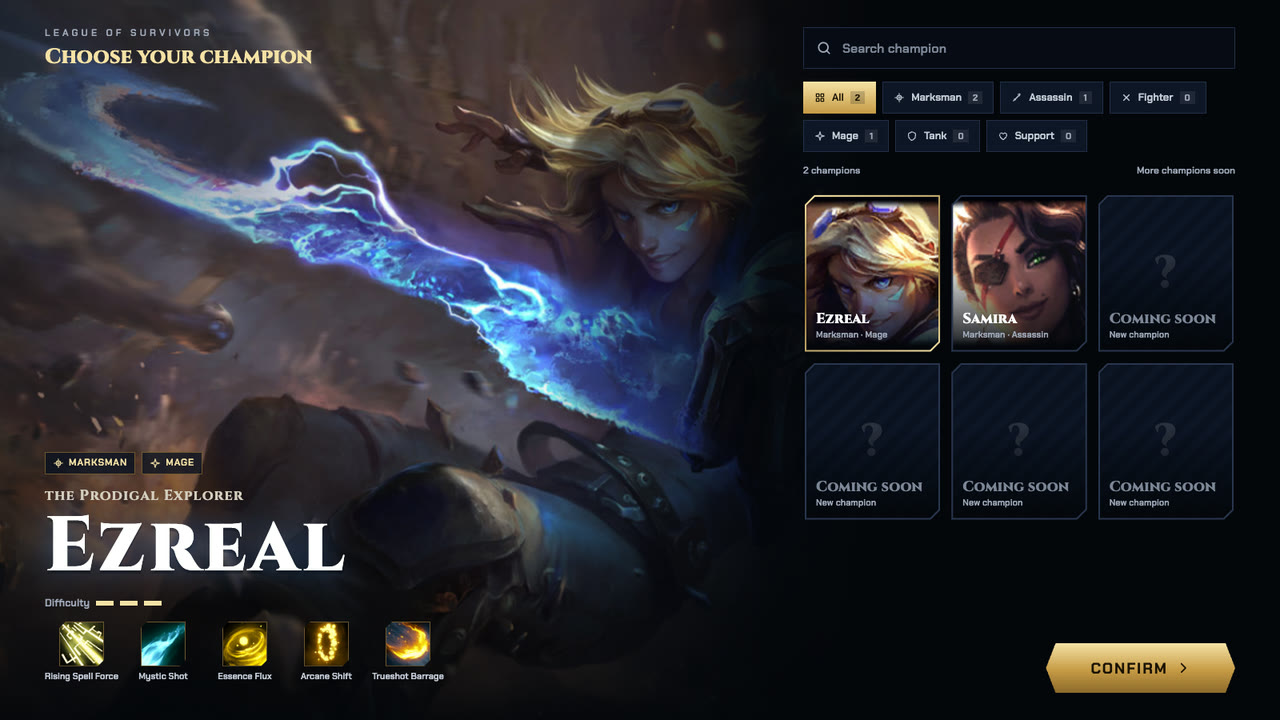
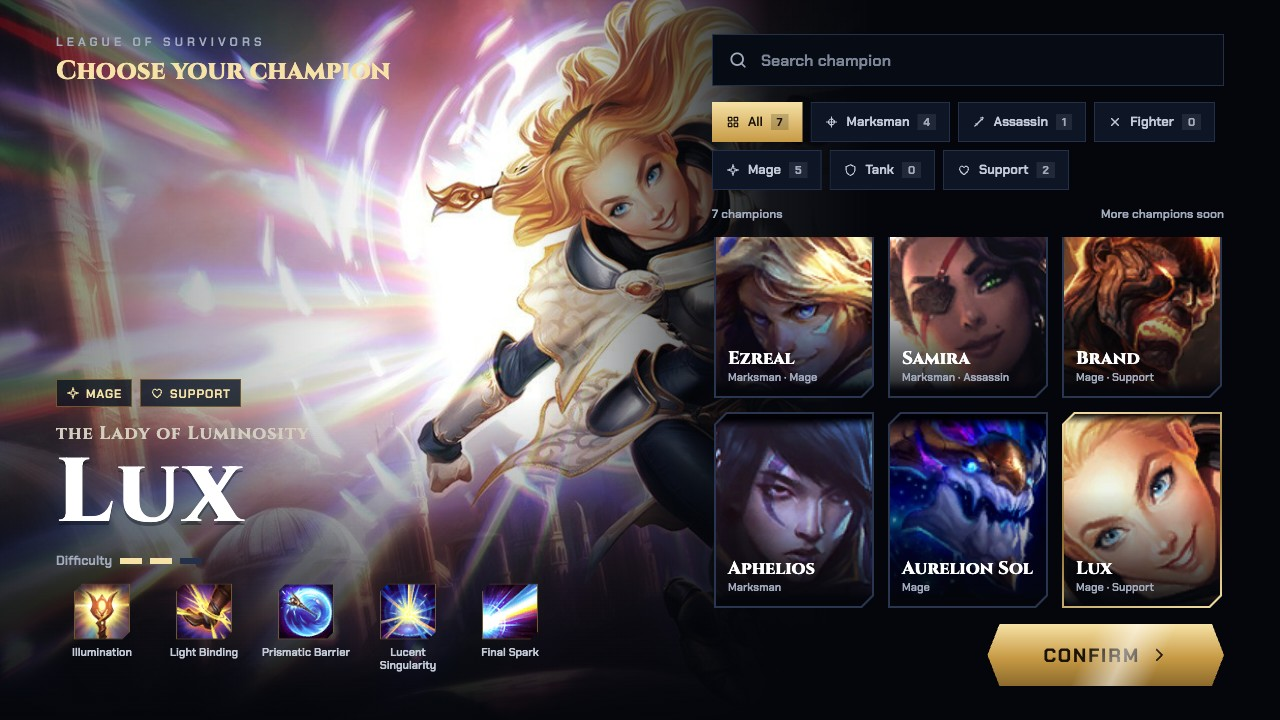
feat: expand champion details and balance information in README files
- Added a section for champions, detailing seven playable champions with their roles and styles.
- Updated the gallery images to reflect the new champion selection.
- Introduced a balance section summarizing current game tuning values, including game pace, enemy health, and mana costs for mages.
- Enhanced localization files to include new champion and balance information across English, Portuguese, and Simplified Chinese README files.

diff --git a/README.pt-BR.md b/README.pt-BR.md
@@ -28,20 +28,45 @@
 
 > O jogo está em inglês, português, espanhol e chinês simplificado, escolhido pelo idioma do navegador.
 
+## Campeões
+
+Sete campeões jogáveis, cada um com o kit completo do LoL adaptado (detalhes em [Regras implementadas](#regras-implementadas)):
+
+| Campeão | Funções | Estilo |
+|---|---|---|
+| Ezreal | Atirador · Mago | Skillshots; acertos do Q reduzem todas as recargas, blink da Mudança Arcana |
+| Samira | Atiradora · Assassina | Mistura de corpo a corpo e distância que sobe o grau de Estilo até S para a ultimate |
+| Brand | Mago · Suporte | Queimaduras da Labareda que detonam e se espalham pela horda |
+| Aphelios | Atirador | Cinco armas com munição de Luar, cada uma com ataque e Q próprios |
+| Aurelion Sol | Mago | Estrelas em órbita, voo por cima de paredes, meteoro que cai do céu |
+| Teemo | Atirador · Mago | Parado ganha velocidade de ataque, veneno no ataque, cogumelos que quicam |
+| Lux | Maga · Suporte | Marcas de Iluminação, enraizamento, escudo e o laser da Centelha Final |
+
 ## Galeria
 
 | Seleção de campeão | Página de runas |
 |---|---|
-| ![Seleção de campeão com a splash art e o kit do Ezreal](docs/media/champion-select.jpg) | ![Página de runas: Precisão + Feitiçaria com fragmentos](docs/media/rune-page.jpg) |
+| ![Seleção de campeão com a splash art da Lux e os sete campeões](docs/media/champion-select.jpg) | ![Página de runas: Precisão + Feitiçaria com fragmentos](docs/media/rune-page.jpg) |
 
 | Level-up: habilidades | Level-up: itens |
 |---|---|
 | ![Cartas de habilidade com dano, recarga e recomendação](docs/media/skill-pick.jpg) | ![Cartas de item com o nível, os atributos antes e depois da escolha e a passiva](docs/media/item-shop.jpg) |
 
-| Samira | Barão Na'Shor (20:00) |
+| Lux | Aurelion Sol |
 |---|---|
-| ![Samira enfrentando uma horda em volta do Aronguejo](docs/media/samira.gif) | ![Arena do Barão com ataques telegrafados](docs/media/baron.gif) |
-| ![Samira com o gauge de Estilo contra o Aronguejo](docs/media/samira.jpg) | ![Ezreal desviando da chicotada do Barão](docs/media/baron.jpg) |
+| ![Lux: Ligação da Luz, Singularidade Lucente e Centelha Final numa horda](docs/media/lux.gif) | ![Aurelion Sol: estrelas em órbita, Oscilação Estelar e Estrela Cadente](docs/media/aurelionsol.gif) |
+
+| Teemo | Brand |
+|---|---|
+| ![Teemo: dardos que cegam, veneno e Armadilha Venenosa](docs/media/teemo.gif) | ![Brand: queimaduras da Labareda e detonações em cadeia](docs/media/brand.gif) |
+
+| Aphelios | Samira |
+|---|---|
+| ![Aphelios: habilidades das armas, Fase e Vigília do Plenilúnio](docs/media/aphelios.gif) | ![Samira enfrentando uma horda em volta do Aronguejo](docs/media/samira.gif) |
+
+| Barão Na'Shor (20:00) | Menu de pausa: atributos, itens e botas |
+|---|---|
+| ![Arena do Barão com ataques telegrafados](docs/media/baron.gif) | ![Menu de pausa com todos os atributos do campeão e os atributos e a passiva de cada item](docs/media/stats-menu.jpg) |
 
 | Vitória | Celular (controles de toque) |
 |---|---|
@@ -241,13 +266,35 @@ WASD não é usado porque colide com Q/W/E.
   - Perto do Barão: 33% de chance de mordida (engole, instantânea, impossível de esquivar). Senão, chicotada em cone: 75% da vida máxima, nunca mata.
   - Ajustes em `BARON` (`src/data.ts`); comportamento em `src/enemies/baron.ts`.
 
+## Balanceamento
+
+Os ajustes atuais num lugar só (as regras completas estão acima):
+
+| O quê | Valor | Onde |
+|---|---|---|
+| Ritmo do jogo | x1 em 0:00 até x2 em 5:00, depois x2 | `PACE` (`src/game.ts`) |
+| Ficar parado | dano recebido até x5 após 5 s sem se mover | `CAMPING` (`src/game.ts`) |
+| Barão Na'Shor | 70 mil de Vida (fixa, sem escala por tempo) | `ENEMIES.baron` (`src/data.ts`) |
+| Poções (build completa) | 5% da Vida ou Mana máxima | `POTION` (`src/items.ts`) |
+| Botas | aos 5:00, nível 2 pelo Aronguejo, nível 3 pelo dragão | `BOOTS_AT`, `BOOT_UPGRADES` (`src/items.ts`) |
+| Vida / dano dos inimigos | `× (1 + 0,08 × (nível − 1)) × (1 + tempo / 900 s)` / `× (1 + tempo / 600 s)` | `enemyHpScale` / `enemyDamageScale` (`src/data.ts`) |
+| Surgimento | `0,45 + 0,04 × (nível − 1) + tempo / 450` por segundo, ×0,6–1,3 pela taxa de abates, limite `12 + 2 × nível + tempo / 8` | `DIRECTOR` (`src/data.ts`) |
+
+Magos conjuram sem parar contra hordas, então os custos de mana do LoL foram reduzidos e a mana por abate tem recarga interna contra tropas (1 s; 0,5 s para as estrelas do Aurelion Sol):
+
+| Campeão | Custos (LoL entre parênteses) | Mana por abate |
+|---|---|---|
+| Brand | Q 40, W/E 45–65, R 80 | 20–40 em abates por habilidade ou de inimigo em chamas |
+| Aurelion Sol | Q 50–70, R 100, W sem custo de ativação (drena 6–10/s) | 4–12 por abate de estrela |
+| Teemo | Q 40–60 (70–90) | nenhuma |
+| Lux | Q 40, W 40–60, E 50–70, R 80 | 10–30 quando um inimigo iluminado morre |
+
 ## Arquitetura (onde adicionar conteúdo)
 
 - **Campeões** (`src/champion.ts`, `src/champions/`): um campeão é um `ChampionDef` (stats base, skills com ranks/custos/recargas/animação/ícone, animações, VFX do ataque básico) mais um `kit`, criado a cada run, que resolve as skills e guarda as peculiaridades (acúmulos, marcas...). O `Game` cuida do genérico: movimento, ataque básico, recargas, mana, itens e o pipeline de dano.
   - Novo campeão: criar `src/champions/<nome>.ts` (modelos: `ezreal.ts`; `brand.ts` para mago AP com dano contínuo e marcas por inimigo) e registrar em `src/champions/index.ts`. Sons seguem `<id>_auto`, `<id>_Q`, `<id>_death`... Passo a passo: `.claude/skills/creating-champions/SKILL.md`.
-  - Hooks do kit: `cast` (obrigatório), `castStart`, `castAnim`, `canCast`, `attackSpeedBonus`/`moveSpeedBonus`, `disarmed`, `ghost` (sem colisão com paredes nem unidades, ex. Cometa Lendário), `steer`/`onMoveOrder` (anda sozinho até uma ordem de movimento, ex. o rumo do Cometa Lendário), `meleeAuto`, `onDamage` (dano mágico extra antes da mitigação, ex. detonar a marca do W), `onKill` (ex. mana da Labareda em abates), `onDealt` (dano após a mitigação, ex. a cura do Severum), `update`, `dispose`, `hud`, `gauge`. Campeões com mais de uma forma (as armas do Aphelios): `stat` (atributos próprios, ex. pontos comprados), `attackTarget`/`attackStart`/`basicAttack` (alvo, clip, som e windup do ataque básico, e o disparo), `moveAnims`, `cooldownBase`/`castTime` (por forma), `skillView` (ícone, nome e selo do slot) e `tray` (ícones pequenos acima dos slots).
+  - Hooks do kit: `cast` (obrigatório), `castStart`, `castAnim`, `canCast`, `recast` (a skill apertada em recarga, ex. detonar a Singularidade Lucente), `attackSpeedBonus`/`moveSpeedBonus`, `disarmed`, `ghost` (sem colisão com paredes nem unidades, ex. Cometa Lendário), `steer`/`onMoveOrder` (anda sozinho até uma ordem de movimento, ex. o rumo do Cometa Lendário), `meleeAuto`, `onDamage` (dano mágico extra antes da mitigação, ex. detonar a marca do W), `onKill` (ex. mana da Labareda em abates), `onDealt` (dano após a mitigação, ex. a cura do Severum), `update`, `dispose`, `hud`, `gauge`. Campeões com mais de uma forma (as armas do Aphelios): `stat` (atributos próprios, ex. pontos comprados), `attackTarget`/`attackStart`/`basicAttack` (alvo, clip, som e windup do ataque básico, e o disparo), `moveAnims`, `cooldownBase`/`castTime` (por forma), `skillView` (ícone, nome e selo do slot) e `tray` (ícones pequenos acima dos slots).
   - Extras do `ChampionDef`: `idleVfx` (sistemas presos a ossos a run toda, ex. as chamas do Brand), `vfx.death`, `scale` (tamanho do modelo), `sequences` (clips emendados, o SequencerClipData do bin, ex. a corrida do Aurelion Sol), `translucent` (submeshes misturados pelo alfa da textura em vez de recortados, ex. a cauda dele), `conformPath` (cadeia de juntas curvada pelo caminho percorrido, o ConformToPathRigPoseModifierData do bin), `itemPool: 'ap'` para magos (skills escalam com `apRatio`), `build` (os 6 lendários recomendados de um site de builds, ofertados com mais frequência e marcados no level-up), `rankLevels` (nível de cada rank), `autoRank` (skills que sobem sem ponto) e `SkillDef.unlockLevel` (conjurável a partir de um nível, qualquer que seja o rank).
-  - Hooks do kit: `cast` (obrigatório), `castStart`, `castAnim`, `canCast`, `recast` (a skill apertada em recarga, ex. detonar a Singularidade Lucente), `attackSpeedBonus`/`moveSpeedBonus`, `disarmed`, `ghost` (sem colisão com paredes nem unidades, ex. Cometa Lendário), `meleeAuto`, `onDamage` (dano mágico extra antes da mitigação, ex. detonar a marca do W), `onKill` (ex. mana da Labareda em abates), `onDealt` (dano após a mitigação, ex. a cura do Severum), `update`, `dispose`, `hud`, `gauge`. Campeões com mais de uma forma (as armas do Aphelios): `stat` (atributos próprios, ex. pontos comprados), `attackTarget`/`attackStart`/`basicAttack` (alvo, clip, som e windup do ataque básico, e o disparo), `moveAnims`, `cooldownBase`/`castTime` (por forma), `skillView` (ícone, nome e selo do slot) e `tray` (ícones pequenos acima dos slots).
   - Controle em inimigos: `game.slow(e, pct, s)`, `game.stunEnemy(e, s)` e `game.rootEnemy(e, s)` (não anda, ainda ataca) (só no loop genérico; as IAs de chefe ignoram os dois últimos). `game.knockUp(e, s)` é um Atordoamento que joga o modelo para o alto (Estrela Cadente).
   - Projéteis: `game.spawnMissile(vfx, de, para, { hit, target | pierce, onHit, ... })`. Sem `onHit`, o impacto padrão aplica VFX, som e dano.
 - **Passivas de itens** (hooks em `src/itemEffects.ts`, entradas em `src/itemPassives/ad.ts`, `ap.ts`, `tank.ts`): cada entrada tem a descrição (números do nível máximo) e uma fábrica de hooks `effect(g, power)` (`onHit`, `onHitMagic`, `onAttack`, `onCast`, `onDealt`, `onKill`, `onHurt`, `onStruck`, `onOverheal`, `tick`, `onLethal`, `stat`, `damageMult`...). `power()` é a força da passiva no nível do item (0,6/0,8/1): efeitos multiplicam seus números por ela, os de tudo-ou-nada (reviver, escudo de feitiço) esticam a recarga. Mecânicas comuns em `src/itemPassives/shared.ts`: Lâmina Arcana, Linha da Vida, escudo de feitiço, queimaduras, Energizado. `unique` + `rank` reproduzem as passivas ÚNICAS do LoL (só a melhor funciona). Stats continuam em `items.json`.
@@ -256,7 +303,7 @@ WASD não é usado porque colide com Q/W/E.
 
 ## Limitações conhecidas / próximos passos
 
-- Partículas: conjuntos de partículas filhas (`childParticleSetDefinition`) acompanham a partícula mãe, nos ossos da malha skinned da partícula (`.skn` desenhado estático na pose de bind, ossos do `.skl` exportados pelo `build_vfx.py`). `VfxPrimitiveBeam` (da partícula até o `target` do sistema, ou até o próprio offset de alvo; malhas esticadas no eixo Z; beams de chão ficam no terreno), `VfxPrimitiveRay`, `VfxPrimitiveAttachedMesh` (a malha do dono redesenhada como brilho ou pós-imagem com pose congelada), campos de força (aceleração, arrasto, atração) e `FlexShapeDefinition` (escala pelo tamanho do alvo) são suportados. Não implementados: campos orbitais/ruído, distorção; malhas anexadas ignoram escala de nascimento, rolagem de UV e erosão. Efeitos de cast seguem o osso indicado pelos eventos de animação da skin (`Actor.bone`, `Vfx.playOn`); com `ChampionDef.animVfx` o jogo toca esses eventos sozinho (`events.json` do `build_vfx.py`: os eventos de partícula de cada clip; arquivo de clip compartilhado por variantes com efeitos diferentes fica com o kit). `blendMode` ausente/4 = aditivo, 1 = alpha (inferido das texturas, não documentado).
+- Partículas: conjuntos de partículas filhas (`childParticleSetDefinition`) acompanham a partícula mãe, nos ossos da malha skinned da partícula (`.skn` desenhado estático na pose de bind, ossos do `.skl` exportados pelo `build_vfx.py`). `VfxPrimitiveBeam` (da partícula até o `target` do sistema, ou até o próprio offset de alvo; malhas esticadas no eixo Z; beams de chão ficam no terreno), `VfxPrimitiveRay`, `VfxPrimitiveAttachedMesh` (a malha do dono redesenhada como brilho ou pós-imagem com pose congelada), campos de força (aceleração, arrasto, atração) e `FlexShapeDefinition` (escala pelo tamanho do alvo) são suportados. Não implementados: campos orbitais/ruído, distorção; malhas anexadas ignoram escala de nascimento, rolagem de UV e erosão; partículas de malha com `uvMode` 2 e texturas de multiplicação com rolagem (os anéis de constelação da Lux) aparecem fracas; quads de chão ficam numa altura fixa, então a plataforma elevada do spawn os corta. UV de beam: U atravessa o feixe (as texturas são perfis de seção), V corre ao longo, repetindo a cada `mBirthTilingSize.y`; `scale.x` é a largura total. `colorLookUpTypeY` 3 sorteia uma linha da textura de cor por partícula; rotações de partícula usam a ordem YXZ. Efeitos de cast seguem o osso indicado pelos eventos de animação da skin (`Actor.bone`, `Vfx.playOn`); com `ChampionDef.animVfx` o jogo toca esses eventos sozinho (`events.json` do `build_vfx.py`: os eventos de partícula de cada clip; arquivo de clip compartilhado por variantes com efeitos diferentes fica com o kit). `blendMode` ausente/4 = aditivo, 1 = alpha (inferido das texturas, não documentado).
 - Os `.glb` de origem são pesados (Ezreal 29 MB, Barão 45 MB); `pnpm build:prod` (`tools/optimize.mjs`) remove os clips que o código não usa, faz resample e comprime com meshopt (Ezreal 1,9 MB, Barão 1,9 MB).
 - Cada inimigo é um SkinnedMesh com o próprio mixer, com limite de 260 vivos (`MAX_ENEMIES`). Para hordas maiores: animação baked em textura + instancing.
 - Dragões: animações compartilhadas do `sru_dragon`. Infernal e Montanha usam a malha do Nuvens (`sru_dragon_air`) com a própria textura, como no jogo (`EnemyDef.mesh`).

diff --git a/README.md b/README.md
@@ -28,20 +28,45 @@
 
 > The game is in English, Portuguese, Spanish and Simplified Chinese, picked from the browser language.
 
+## Champions
+
+Seven playable champions, each with a full kit ported from LoL (details in [Implemented rules](#implemented-rules)):
+
+| Champion | Roles | Style |
+|---|---|---|
+| Ezreal | Marksman · Mage | Skillshots; Q hits cut every cooldown, Arcane Shift blink |
+| Samira | Marksman · Assassin | Melee/ranged mix that raises a Style grade up to S for her ultimate |
+| Brand | Mage · Support | Ablaze burns that detonate and spread through the horde |
+| Aphelios | Marksman | Five weapons with Moonlight ammo, each with its own attack and Q |
+| Aurelion Sol | Mage | Stars orbiting him, a flight over walls, a falling meteor |
+| Teemo | Marksman · Mage | Stand still for attack speed, poison on hit, bouncing mushroom traps |
+| Lux | Mage · Support | Illumination marks, roots, a shield and the Final Spark laser |
+
 ## Gallery
 
 | Champion select | Rune page |
 |---|---|
-| ![Champion select with Ezreal's splash art and kit](docs/media/champion-select.jpg) | ![Rune page: Precision + Sorcery with shards](docs/media/rune-page.jpg) |
+| ![Champion select with Lux's splash art and the seven champions](docs/media/champion-select.jpg) | ![Rune page: Precision + Sorcery with shards](docs/media/rune-page.jpg) |
 
 | Level-up: abilities | Level-up: items |
 |---|---|
 | ![Ability cards with damage, cooldown and a recommendation](docs/media/skill-pick.jpg) | ![Item cards with the level, stats now and after the pick, and the passive](docs/media/item-shop.jpg) |
 
-| Samira | Baron Nashor (20:00) |
+| Lux | Aurelion Sol |
 |---|---|
-| ![Samira fighting a horde around the Rift Scuttler](docs/media/samira.gif) | ![Baron arena with telegraphed attacks](docs/media/baron.gif) |
-| ![Samira with the Style gauge against the Rift Scuttler](docs/media/samira.jpg) | ![Ezreal dodging Baron's whip](docs/media/baron.jpg) |
+| ![Lux: Light Binding, Lucent Singularity and Final Spark through a horde](docs/media/lux.gif) | ![Aurelion Sol: orbiting stars, Starsurge and Falling Star](docs/media/aurelionsol.gif) |
+
+| Teemo | Brand |
+|---|---|
+| ![Teemo: blinding darts, poison and Noxious Traps](docs/media/teemo.gif) | ![Brand: Ablaze burns and chained detonations](docs/media/brand.gif) |
+
+| Aphelios | Samira |
+|---|---|
+| ![Aphelios: weapon abilities, Phase and Moonlight Vigil](docs/media/aphelios.gif) | ![Samira fighting a horde around the Rift Scuttler](docs/media/samira.gif) |
+
+| Baron Nashor (20:00) | Pause menu: stats, items and boots |
+|---|---|
+| ![Baron arena with telegraphed attacks](docs/media/baron.gif) | ![Pause menu with every champion stat and each item's stats and passive](docs/media/stats-menu.jpg) |
 
 | Victory | Phone (touch controls) |
 |---|---|
@@ -241,13 +266,35 @@ WASD is not used because it clashes with Q/W/E.
   - Near the Baron: 33% chance of a bite (swallows, instant, cannot be dodged). Otherwise, a cone whip: 75% of max health, never kills.
   - Tune in `BARON` (`src/data.ts`); behavior in `src/enemies/baron.ts`.
 
+## Balance
+
+Current tuning, in one place (the full rules are above):
+
+| What | Value | Where |
+|---|---|---|
+| Game pace | x1 at 0:00 to x2 at 5:00, then x2 | `PACE` (`src/game.ts`) |
+| Standing still | damage taken up to x5 after 5 s without moving | `CAMPING` (`src/game.ts`) |
+| Baron Nashor | 70k health (fixed, no time scaling) | `ENEMIES.baron` (`src/data.ts`) |
+| Potions (complete build) | 5% of max health or mana | `POTION` (`src/items.ts`) |
+| Boots | at 5:00, tier 2 from the Rift Scuttler, tier 3 from the dragon | `BOOTS_AT`, `BOOT_UPGRADES` (`src/items.ts`) |
+| Enemy health / damage | `× (1 + 0.08 × (level − 1)) × (1 + time / 900 s)` / `× (1 + time / 600 s)` | `enemyHpScale` / `enemyDamageScale` (`src/data.ts`) |
+| Spawns | `0.45 + 0.04 × (level − 1) + time / 450` per second, ×0.6–1.3 by kill rate, cap `12 + 2 × level + time / 8` | `DIRECTOR` (`src/data.ts`) |
+
+Mages cast nonstop against hordes, so their LoL mana costs are lowered and their mana on kills has an internal cooldown against minions (1 s; 0.5 s for Aurelion Sol's stars):
+
+| Champion | Costs (LoL in brackets) | Mana on kills |
+|---|---|---|
+| Brand | Q 40, W/E 45–65, R 80 | 20–40 on kills by an ability or of an ablazed enemy |
+| Aurelion Sol | Q 50–70, R 100, W no activation cost (drains 6–10/s) | 4–12 per star kill |
+| Teemo | Q 40–60 (70–90) | none |
+| Lux | Q 40, W 40–60, E 50–70, R 80 | 10–30 when an illuminated enemy dies |
+
 ## Architecture (where to add content)
 
 - **Champions** (`src/champion.ts`, `src/champions/`): a champion is a `ChampionDef` (base stats, skills with ranks/costs/cooldowns/animation/icon, animations, basic attack VFX) plus a `kit`, created each run, which resolves the skills and keeps their quirks (stacks, marks...). `Game` handles the generic parts: movement, basic attack, cooldowns, mana, items and the damage pipeline.
   - New champion: create `src/champions/<name>.ts` (templates: `ezreal.ts`; `brand.ts` for an AP mage with damage over time and per-enemy marks) and register it in `src/champions/index.ts`. Sounds follow `<id>_auto`, `<id>_Q`, `<id>_death`... Step-by-step guide: `.claude/skills/creating-champions/SKILL.md`.
-  - Kit hooks: `cast` (required), `castStart`, `castAnim`, `canCast`, `attackSpeedBonus`/`moveSpeedBonus`, `disarmed`, `ghost` (no wall nor unit collision, e.g. Comet of Legend), `steer`/`onMoveOrder` (walks the champion on its own until a move order, e.g. Comet of Legend's course), `meleeAuto`, `onDamage` (extra magic damage before mitigation, e.g. detonating the W mark), `onKill` (e.g. Blaze's mana on kills), `onDealt` (damage after mitigation, e.g. Severum's heal), `update`, `dispose`, `hud`, `gauge`. Champions with more than one form (Aphelios' weapons): `stat` (own stats, e.g. points bought), `attackTarget`/`attackStart`/`basicAttack` (target, clip, sound and windup of the basic attack, firing it), `moveAnims`, `cooldownBase`/`castTime` (per form), `skillView` (slot icon, name and badge) and `tray` (small icons above the slots).
+  - Kit hooks: `cast` (required), `castStart`, `castAnim`, `canCast`, `recast` (the skill pressed while on cooldown, e.g. detonating Lucent Singularity), `attackSpeedBonus`/`moveSpeedBonus`, `disarmed`, `ghost` (no wall nor unit collision, e.g. Comet of Legend), `steer`/`onMoveOrder` (walks the champion on its own until a move order, e.g. Comet of Legend's course), `meleeAuto`, `onDamage` (extra magic damage before mitigation, e.g. detonating the W mark), `onKill` (e.g. Blaze's mana on kills), `onDealt` (damage after mitigation, e.g. Severum's heal), `update`, `dispose`, `hud`, `gauge`. Champions with more than one form (Aphelios' weapons): `stat` (own stats, e.g. points bought), `attackTarget`/`attackStart`/`basicAttack` (target, clip, sound and windup of the basic attack, firing it), `moveAnims`, `cooldownBase`/`castTime` (per form), `skillView` (slot icon, name and badge) and `tray` (small icons above the slots).
   - `ChampionDef` extras: `idleVfx` (systems riding bones all run long, e.g. Brand's flames), `vfx.death`, `scale` (model size), `sequences` (clips joined end to end, the bin's SequencerClipData, e.g. Aurelion Sol's run), `translucent` (submeshes blended by texture alpha instead of cut out, e.g. his tail), `conformPath` (joint chain bent along the travelled path, the bin's ConformToPathRigPoseModifierData), `itemPool: 'ap'` for mages (skills scale with `apRatio`), `build` (the 6 recommended legendaries from a build site, offered more often and tagged on level up), `rankLevels` (level of each rank), `autoRank` (skills ranked without a point) and `SkillDef.unlockLevel` (castable from a level, whatever its ranks).
-  - Kit hooks: `cast` (required), `castStart`, `castAnim`, `canCast`, `recast` (the skill pressed while on cooldown, e.g. detonating Lucent Singularity), `attackSpeedBonus`/`moveSpeedBonus`, `disarmed`, `ghost` (no wall nor unit collision, e.g. Comet of Legend), `meleeAuto`, `onDamage` (extra magic damage before mitigation, e.g. detonating the W mark), `onKill` (e.g. Blaze's mana on kills), `onDealt` (damage after mitigation, e.g. Severum's heal), `update`, `dispose`, `hud`, `gauge`. Champions with more than one form (Aphelios' weapons): `stat` (own stats, e.g. points bought), `attackTarget`/`attackStart`/`basicAttack` (target, clip, sound and windup of the basic attack, firing it), `moveAnims`, `cooldownBase`/`castTime` (per form), `skillView` (slot icon, name and badge) and `tray` (small icons above the slots).
   - Crowd control on enemies: `game.slow(e, pct, s)`, `game.stunEnemy(e, s)` and `game.rootEnemy(e, s)` (no moving, still attacks) (generic loop only; boss AIs ignore them). `game.knockUp(e, s)` is a stun that throws the model into the air (Falling Star).
   - Projectiles: `game.spawnMissile(vfx, from, to, { hit, target | pierce, onHit, ... })`. Without `onHit`, the default impact applies VFX, sound and damage.
 - **Item passives** (`src/itemEffects.ts` hooks, entries in `src/itemPassives/ad.ts`, `ap.ts`, `tank.ts`): each entry has the description (max-level numbers) and a hook factory `effect(g, power)` (`onHit`, `onHitMagic`, `onAttack`, `onCast`, `onDealt`, `onKill`, `onHurt`, `onStruck`, `onOverheal`, `tick`, `onLethal`, `stat`, `damageMult`...). `power()` is the passive's strength at the item's level (0.6/0.8/1): effects multiply their numbers by it, all-or-nothing ones (revive, spell shield) stretch their cooldown. Shared mechanics in `src/itemPassives/shared.ts`: Spellblade, Lifeline, spell shield, burns, Energized. `unique` + `rank` reproduce LoL's UNIQUE passives (only the best one works). Stats stay in `items.json`.
@@ -256,7 +303,7 @@ WASD is not used because it clashes with Q/W/E.
 
 ## Known limitations / next steps
 
-- Particles: child particle sets (`childParticleSetDefinition`) ride their parent particle, at the joints of a skinned particle mesh (`.skn` drawn static in bind pose, `.skl` joints exported by `build_vfx.py`). `VfxPrimitiveBeam` (from the particle to the system's `target`, or to its own target offset; meshes stretched along Z; ground-layer beams lie on the terrain), `VfxPrimitiveRay`, `VfxPrimitiveAttachedMesh` (the owner's skinned mesh redrawn as a glow or frozen-pose afterimage), force fields (acceleration, drag, attraction) and `FlexShapeDefinition` (scaled to the target's size) are supported. Not implemented: orbital/noise fields, distortion; attached meshes ignore birth scale, UV scroll and erosion. Cast effects ride the bone named by the skin's animation events (`Actor.bone`, `Vfx.playOn`); with `ChampionDef.animVfx` the game plays those events itself (`events.json` from `build_vfx.py`: the particle events of each clip; a clip file shared by variants that play different effects is left to the kit). `blendMode` missing/4 = additive, 1 = alpha (inferred from the textures, not documented).
+- Particles: child particle sets (`childParticleSetDefinition`) ride their parent particle, at the joints of a skinned particle mesh (`.skn` drawn static in bind pose, `.skl` joints exported by `build_vfx.py`). `VfxPrimitiveBeam` (from the particle to the system's `target`, or to its own target offset; meshes stretched along Z; ground-layer beams lie on the terrain), `VfxPrimitiveRay`, `VfxPrimitiveAttachedMesh` (the owner's skinned mesh redrawn as a glow or frozen-pose afterimage), force fields (acceleration, drag, attraction) and `FlexShapeDefinition` (scaled to the target's size) are supported. Not implemented: orbital/noise fields, distortion; attached meshes ignore birth scale, UV scroll and erosion; mesh particles with `uvMode` 2 and scrolling multiply textures (Lux's constellation rings) render faint; ground-layer quads sit at a fixed height, so the raised spawn platform clips them. Beam UVs: U across (textures are cross-section profiles), V along, repeating every `mBirthTilingSize.y`; `scale.x` is the full width. `colorLookUpTypeY` 3 picks a random row of the colour texture per particle; particle rotations use the YXZ order. Cast effects ride the bone named by the skin's animation events (`Actor.bone`, `Vfx.playOn`); with `ChampionDef.animVfx` the game plays those events itself (`events.json` from `build_vfx.py`: the particle events of each clip; a clip file shared by variants that play different effects is left to the kit). `blendMode` missing/4 = additive, 1 = alpha (inferred from the textures, not documented).
 - The source `.glb` files are heavy (Ezreal 29 MB, Baron 45 MB); `pnpm build:prod` (`tools/optimize.mjs`) drops clips the code never names, resamples and meshopt-compresses them (Ezreal 1.9 MB, Baron 1.9 MB).
 - Each enemy is a SkinnedMesh with its own mixer, capped at 260 alive (`MAX_ENEMIES`). For bigger hordes: texture-baked animation + instancing.
 - Dragons: animations shared from `sru_dragon`. Infernal and Mountain use the Cloud mesh (`sru_dragon_air`) with their own texture, as in the game (`EnemyDef.mesh`).

diff --git a/.claude/skills/creating-champions/SKILL.md b/.claude/skills/creating-champions/SKILL.md
@@ -26,7 +26,8 @@ Contrato completo e comentado: `src/champion.ts`. Exemplos de referência: `src/
 | `src/main.ts` | Nada a fazer: a tela de seleção lista `CHAMPIONS` e troca com `game.setChampion`. `?champ=<id>` na URL só escolhe o campeão carregado de início |
 | `src/locales/{en,pt,es,zh}.json` | `champion.<id>.*` nos 4 idiomas (ver Textos) |
 | `tests/<id>.test.ts` | Teste da passiva com um `Game` stub (modelo: `tests/brand.test.ts`) |
-| `README.md`, `README.pt-BR.md`, `README.zh-CN.md` | "Regras implementadas" (kit) e "Pipeline de assets" (regex de hashes e comandos de extração/VFX citam os campeões: acrescente o novo) nos 3 READMEs |
+| `README.md`, `README.pt-BR.md`, `README.zh-CN.md` | "Regras implementadas" (kit) e "Pipeline de assets" (regex de hashes e comandos de extração/VFX citam os campeões: acrescente o novo), "Campeões" (linha na tabela), "Balanceamento" (custos de mana adaptados) e "Galeria" (GIF) nos 3 READMEs |
+| `docs/media/<id>.gif` | GIF da galeria: vídeo do `record_showcase.mjs` acelerado 2x, 720 px, 10 fps, ~7 s, paleta própria (`palettegen`/`paletteuse`), até ~6 MB |
 
 Assets (`assets-raw/`, `public/assets/`) não vão para o git.
 
@@ -45,6 +46,9 @@ Assets (`assets-raw/`, `public/assets/`) não vão para o git.
 - `sequences`: clip feito de outros em sequência (`SequencerClipData` do `animations/skin0.bin`; ex.: `Run_Base` do Aurelion Sol = 4 clips). Cheque se `run`/`idle` não são sequências antes de usar um clip só.
 - `translucent`: submeshes cujo alfa da textura é opacidade (misturados, não recortados pelo `alphaTest`); ex.: a cauda do Aurelion Sol. Compare o alfa médio nos UVs de cada submesh.
 - `conformPath`: `[início, fim]` do `ConformToPathRigPoseModifierData` em `skinMeshProperties`: a cadeia segue o caminho percorrido (cauda que curva).
+- Antes de fechar o modelo, liste os submeshes do `.glb` e o tamanho de cada um. Parte que falta, fica preta/sólida ou some de longe costuma ser um submesh separado (a cauda do Aurelion Sol é `AurelionSol_BodyLower`, translúcida). Animação "cortada na metade" costuma ser um `SequencerClipData`.
+- `scale` só quando o export sai menor que o campeão no LoL: Teemo é pequeno de propósito (a 1.6 ficou grande demais; ficou sem `scale`).
+- `SKIP_CLIPS` em `tools/build_models.py` corta clips por regex na extração: confira que não pega clips usados (o `spell4` do Teemo sumiu com um regex largo demais; ficou `spell4_(-|[1-9])`).
 - `idleVfx`: pares `[sistema, osso]` que ficam ligados a run toda (o `idleParticlesEffects` do `skin0.bin`, ex.: as chamas do Brand); param na morte. O bin às vezes omite o prefixo do osso (`BUFFBONE_GLB_CENTER_LOC` vs `C_BUFFBONE_GLB_CENTER_LOC`): confira no `.glb`.
 - Mago: ratio de AP da skill em `apRatio` (o card mostra) e `g.ap` no kit; `itemPool: 'ap'` no `ChampionDef` para receber itens AP no level up.
 - `build` (obrigatório): os 6 itens lendários recomendados, na ordem de compra de um site de builds (OP.GG/u.gg, patch atual), só ids que existem em `src/items.json` (sem ativas/suporte); o level up oferece esses itens com mais frequência e marca como recomendado.
@@ -70,7 +74,7 @@ function luxKit(g: Game): ChampionKit { /* estado da run aqui, em closures */ re
 - `onDamage(e, hit)`: roda em **todo** dano do campeão, antes da mitigação; retorna dano **mágico** extra. Ignore `hit.source === 'item'` se a passiva não deve reagir a queimaduras de item.
 - `dispose`: remova da cena tudo que o kit criou (meshes de marca etc.). `update` roda todo frame depois dos inimigos.
 - Cada hit declara um `Hit` (`type`, `source`, `skill`, `onHit`). Defina como constantes. `onHit: true` só se a skill aplica efeitos ao acertar no LoL. Sempre preencha `skill` em `source: 'ability'` (o tipo não obriga, mas reembolsos usam `g.costOf(hit.skill)`).
-- Blink: altere `g.pos` e chame `g.collidePlayer()` (sem clamp de arena). Voo por cima de paredes e unidades (Cometa Lendário): `ghost()` true no kit desliga a colisão do campeão enquanto durar. Dash: `g.dash(dir, dist, speed)` (respeita arena e colisão, sem andar/atacar; CC interrompe); `g.dashing` diz se ainda corre (dano no caminho: cheque no `update`).
+- Blink: altere `g.pos` e chame `g.collidePlayer()` (sem clamp de arena). Voo por cima de paredes e unidades (Cometa Lendário): `ghost()` true no kit desliga a colisão do campeão enquanto durar. Andar sozinho até uma ordem de movimento (rumo do Cometa Lendário): `steer()` devolve a direção (ou `undefined` quando acabou) e `onMoveOrder()` é chamado quando o jogador clica no chão ou aperta uma seta: encerre o efeito ali. A skill usa `aim: 'move'`. Dash: `g.dash(dir, dist, speed)` (respeita arena e colisão, sem andar/atacar; CC interrompe); `g.dashing` diz se ainda corre (dano no caminho: cheque no `update`).
 - Bloquear projéteis inimigos: `g.blockMissiles(p, r)` (retorna quantos).
 - Objetos de chão do campeão (armadilhas, zonas): meshes do kit em `g.scene`, checados no `update` com `g.enemiesNear`, removidos em `dispose`. `g.hazards` só fere o campeão (é dos chefes).
 
@@ -129,7 +133,16 @@ Dump de um bin para consulta: `read_linked(Names('../assets-raw/hashes'), [Wad(.
 - `MissileOpts.arc`: altura do pico para míssil com alvo lançado em parábola.
 - Efeito de área que o kit move ou faz crescer (ex. Oscilação Estelar com o vórtice da Singularidade): `g.vfx.attach(key, { bind: true })` faz todas as partículas seguirem o objeto, e `scale` do objeto escala o efeito.
 - Sistema que o jogo atual não usa (sobra de versão antiga) pode virar feedback (ex. `Brand_PHguardian_tar` no atordoamento do Q). Comente no kit.
-- Orçamento: marcas por inimigo em horda custam caro. Limite as simultâneas (Brand: 40 marcas, 12 anéis); acima disso a mecânica roda sem o visual.
+- **Altura do sistema**: a origem do sistema nem sempre é o chão. Leia o `EmitterPosition` dos emissores no `systems.json` antes de escolher onde tocar: o escudo do W da Lux é centrado no corpo (brilho de chão a y −95: tocado a 95), a zona e a explosão do E são autoradas 100 acima do chão (anel e onda a y −100: tocadas a 100). Tocado no chão, o efeito fica enterrado e "não aparece".
+- **Beams**: o U atravessa o feixe (as texturas são perfis de seção, ex. 256x4) e o V corre ao longo, repetindo a cada `mBirthTilingSize.y`; `scale.x` é a largura **total**. Caixa translúcida gigante = UV ou largura errada no runtime, não no kit. Confira também onde o feixe começa: os do Fulgor Final saem 150–240 atrás da origem do sistema, então o sistema vai à frente do campeão (`SPARK` em `lux.ts`).
+- **Osso que balança**: VFX de cast preso a um osso que a animação joga para trás (o cajado da Lux no `lux_spell4`) sai no lugar errado. Toque com `playAt` numa posição fixa à frente do campeão.
+- **Textura de cor 2D**: `particleColorTexture` tem uma cor por linha. `colorLookUpTypeY` 3 = linha aleatória por partícula (anéis arco-íris da Lux); o runtime já faz. Rotações de partícula usam a ordem Euler YXZ (anéis deitados que giram); se um anel aparece em pé, desconfie da ordem.
+- **Alvo com tamanho**: impacto/marca em inimigo usa `{ size: boundSize(e) }` (FlexShape escala pelo tamanho do alvo; monstro grande, efeito grande).
+- **Canalização**: sistema de cast que dura a canalização (linhas de aviso do R da Lux) toca uma vez e termina sozinho; atordoamento cancela o cast sem avisar o kit.
+- **Marcas que expiram**: emissores de marca duram uma aplicação. Marca reaplicada precisa renovar o sistema (Lux: a cada 1 s, `renewFx`).
+- **Não suportado** (não gaste tempo forçando; deixe de fora e comente no kit): partículas de malha com `uvMode` 2 e textura de multiplicação com rolagem (anéis de constelação da Lux ficam fracos); beams entre dois ossos com UV repetido (os `BodyBeam` do Aurelion Sol viraram retângulos azuis chapados e foram tirados); campos orbitais/ruído; distorção. Quads de chão (`isGroundLayer`) ficam a `GROUND = 2`: a plataforma elevada do spawn os corta, então confira efeitos de chão longe do spawn.
+- Nunca entregue VFX que você não comparou com o jogo: pegue uma referência (vídeo/screenshot do LoL) de cada skill e compare com o seu screenshot. O usuário compara.
+- Orçamento: marcas por inimigo em horda custam caro. Limite as simultâneas (Brand: 40 marcas, 12 anéis); acima disso a mecânica roda sem o visual. Impactos por cast numa multidão também (Lux: 30 por cast, `maxHitFx`).
 
 ## Desempenho (obrigatório)
 
@@ -153,6 +166,15 @@ Dump de um bin para consulta: `read_linked(Names('../assets-raw/hashes'), [Wad(.
 | `build_audio.py` quebra no wwiser | Caminho relativo do `wwiser.py`: use absoluto (o script roda o wwiser com `cwd` temporário) |
 | Último tick de dano some | Contar ticks, não comparar tempo |
 | Mana infinita em horda | Recarga interna na mana por abate |
+| Efeito de skill some ou fica enterrado | Origem do sistema acima do chão: leia o `EmitterPosition` e toque na altura autorada |
+| Laser/beam vira uma caixa gigante | UV de beam (U atravessa, V ao longo) e `scale.x` = largura total; posicione o sistema pelo início do feixe |
+| Anel de partícula em pé em vez de deitado | Ordem Euler YXZ nas rotações de partícula |
+| Efeito idle vira retângulo chapado | Recurso não suportado (`uvMode` 2, beam entre ossos): tire e comente, não force |
+| Parte do modelo preta/sólida ou faltando | Submesh separado translúcido: `translucent`; submesh de FX escondido: `hide` |
+| Corrida cortada na metade | `Run_Base` é `SequencerClipData`: `sequences` |
+| Clip some na extração | Regex de `SKIP_CLIPS` pegou o clip |
+| Teste quebra com vetor mudando sozinho | Mock de `vfx.playAt`/`play` guarda a referência: passe `clone()` do vetor que o kit ainda vai mexer |
+| Texto do `gauge` estoura o slot | `label` curto ("80%", não "+80%") |
 | Item da `build` nunca aparece | Id fora de `src/items.json` (itens com ativa, suporte e corta-cura não existem no jogo): troque pelo próximo item do site de builds |
 
 ## Verificação
@@ -162,4 +184,5 @@ Dump de um bin para consulta: `read_linked(Names('../assets-raw/hashes'), [Wad(.
 3. `game.reset()` não pode deixar meshes do kit na cena (conte os `Group` vazios em `game.scene.children` antes e depois).
 4. Teste de altura: `game.player.bone('head').getWorldPosition(new THREE.Vector3()).y` perto dos outros campeões.
 5. Itens: `game.takeItem('<id>')` e `game.levelItem(slot)` até o nível 5 nos itens da `build`; confira que as passivas reagem às skills (queimadura, lentidão, on-hit) e que o card de level-up marca a build como recomendada.
-6. Contra horda: `game.hurtPlayer = () => {}`, spawne ~30 `minion_melee` com vida alta e confira mana gasta por skill, marcas e FPS.
+6. Vídeo de todas as skills e ataques: `node tools/record_showcase.mjs --champ <id> --out /tmp/x.mp4 --url http://localhost:<porta> --scenario <cenário.mjs>` (Playwright em `~/.cache/los-recorder`). No cenário, feche o level-up apertando `1` enquanto `#levelup` estiver com `display: flex`, desligue o XP (`game.gainXp = () => {}`) e use o ataque básico de verdade (`game.focus = alvo`): `g.basicAttack` direto pula windup e animação. O Chromium headless roda a ~0,5x: acelere o vídeo 2x para avaliar. Extraia quadros (`ffmpeg -ss <t> -frames:v 1`) e compare com a referência do LoL.
+7. Contra horda: `game.hurtPlayer = () => {}`, spawne ~30 `minion_melee` com vida alta e confira mana gasta por skill, marcas e FPS.

diff --git a/README.zh-CN.md b/README.zh-CN.md
@@ -28,20 +28,45 @@
 
 > 游戏支持英语、葡萄牙语、西班牙语和简体中文，根据浏览器语言自动选择。
 
+## 英雄
+
+七位可玩英雄，每位都移植了英雄联盟的完整技能组（详见[已实现的规则](#已实现的规则)）：
+
+| 英雄 | 定位 | 风格 |
+|---|---|---|
+| 伊泽瑞尔 | 射手 · 法师 | 技能射击；Q 命中减少所有冷却，奥术跃迁闪烁 |
+| 莎弥拉 | 射手 · 刺客 | 近战与远程交替，提升风格评级到 S 以释放大招 |
+| 布兰德 | 法师 · 辅助 | 炽热之焰的灼烧在怪潮中引爆并扩散 |
+| 厄斐琉斯 | 射手 | 五把武器，使用月光弹药，各有专属普攻和 Q |
+| 奥瑞利安·索尔 | 法师 | 环绕的星星、飞越墙体、从天而降的陨星 |
+| 提莫 | 射手 · 法师 | 静止时提升攻速，普攻附带毒，会弹跳的蘑菇陷阱 |
+| 拉克丝 | 法师 · 辅助 | 光芒四射标记、禁锢、护盾与终极闪光激光 |
+
 ## 截图
 
 | 英雄选择 | 符文页 |
 |---|---|
-| ![英雄选择：伊泽瑞尔的原画与技能](docs/media/champion-select.jpg) | ![符文页：精密 + 巫术与符文碎片](docs/media/rune-page.jpg) |
+| ![英雄选择：拉克丝的原画与七位英雄](docs/media/champion-select.jpg) | ![符文页：精密 + 巫术与符文碎片](docs/media/rune-page.jpg) |
 
 | 升级：技能 | 升级：装备 |
 |---|---|
 | ![技能卡片：伤害、冷却与推荐](docs/media/skill-pick.jpg) | ![装备卡片：等级、选择前后的属性与被动](docs/media/item-shop.jpg) |
 
-| 莎弥拉 | 纳什男爵（20:00） |
+| 拉克丝 | 奥瑞利安·索尔 |
 |---|---|
-| ![莎弥拉在峡谷迅捷蟹周围对抗怪潮](docs/media/samira.gif) | ![男爵竞技场与预警攻击](docs/media/baron.gif) |
-| ![莎弥拉与风格计量条，对战峡谷迅捷蟹](docs/media/samira.jpg) | ![伊泽瑞尔躲避男爵的鞭击](docs/media/baron.jpg) |
+| ![拉克丝：光之束缚、透光奇点与终极闪光穿过怪潮](docs/media/lux.gif) | ![奥瑞利安·索尔：环绕的星星、星河急涌与星天落瀑](docs/media/aurelionsol.gif) |
+
+| 提莫 | 布兰德 |
+|---|---|
+| ![提莫：致盲吹箭、毒性射击与种蘑菇](docs/media/teemo.gif) | ![布兰德：炽热之焰的灼烧与连锁引爆](docs/media/brand.gif) |
+
+| 厄斐琉斯 | 莎弥拉 |
+|---|---|
+| ![厄斐琉斯：武器技能、月相轮转与清辉夜凝](docs/media/aphelios.gif) | ![莎弥拉在峡谷迅捷蟹周围对抗怪潮](docs/media/samira.gif) |
+
+| 纳什男爵（20:00） | 暂停菜单：属性、装备与鞋子 |
+|---|---|
+| ![男爵竞技场与预警攻击](docs/media/baron.gif) | ![暂停菜单：英雄的全部属性以及每件装备的属性与被动](docs/media/stats-menu.jpg) |
 
 | 胜利 | 手机（触控操作） |
 |---|---|
@@ -241,6 +266,29 @@ pnpm dev        # http://localhost:5173（在第一个界面选择英雄）
   - 靠近男爵时：33% 概率撕咬（吞噬，瞬发，无法躲避）。否则为锥形鞭击：75% 最大生命值，不会致死。
   - 在 `BARON`（`src/data.ts`）中调整；行为在 `src/enemies/baron.ts`。
 
+## 平衡
+
+当前的数值调整汇总（完整规则见上文）：
+
+| 项目 | 数值 | 位置 |
+|---|---|---|
+| 游戏节奏 | 0:00 时 x1，到 5:00 升至 x2，之后保持 x2 | `PACE`（`src/game.ts`） |
+| 静止不动 | 不移动 5秒后受到的伤害最高 x5 | `CAMPING`（`src/game.ts`） |
+| 纳什男爵 | 70000 生命值（固定，不随时间成长） | `ENEMIES.baron`（`src/data.ts`） |
+| 药水（出装完成后） | 最大生命值或法力值的 5% | `POTION`（`src/items.ts`） |
+| 鞋子 | 5:00 获得，击杀峡谷迅捷蟹升至二级，击杀巨龙升至三级 | `BOOTS_AT`、`BOOT_UPGRADES`（`src/items.ts`） |
+| 敌人生命值 / 伤害 | `× (1 + 0.08 × (等级 − 1)) × (1 + 时间 / 900 秒)` / `× (1 + 时间 / 600 秒)` | `enemyHpScale` / `enemyDamageScale`（`src/data.ts`） |
+| 刷怪 | 每秒 `0.45 + 0.04 × (等级 − 1) + 时间 / 450`，按击杀率 ×0.6–1.3，上限 `12 + 2 × 等级 + 时间 / 8` | `DIRECTOR`（`src/data.ts`） |
+
+法师需要对怪潮不停施法，因此降低了英雄联盟的法力消耗，击杀回蓝对小兵有内置冷却（1秒；奥瑞利安·索尔的星星为 0.5秒）：
+
+| 英雄 | 消耗（括号内为英雄联盟数值） | 击杀回蓝 |
+|---|---|---|
+| 布兰德 | Q 40、W/E 45–65、R 80 | 技能击杀或击杀燃烧中的敌人回复 20–40 |
+| 奥瑞利安·索尔 | Q 50–70、R 100、W 无激活消耗（每秒消耗 6–10） | 星星每次击杀回复 4–12 |
+| 提莫 | Q 40–60（70–90） | 无 |
+| 拉克丝 | Q 40、W 40–60、E 50–70、R 80 | 被照亮的敌人死亡时回复 10–30 |
+
 ## 架构（在哪里添加内容）
 
 - **英雄**（`src/champion.ts`、`src/champions/`）：一个英雄由 `ChampionDef`（基础属性、技能的等级/消耗/冷却/动画/图标、动画、普攻特效）加一个每局创建的 `kit` 组成，`kit` 负责处理技能及其特殊机制（层数、标记等）。`Game` 负责通用部分：移动、普攻、冷却、法力、装备和伤害管线。
@@ -255,7 +303,7 @@ pnpm dev        # http://localhost:5173（在第一个界面选择英雄）
 
 ## 已知限制 / 下一步
 
-- 粒子：子粒子集（`childParticleSetDefinition`）跟随父粒子，生成在粒子蒙皮网格的骨骼上（`.skn` 以绑定姿势静态绘制，`.skl` 骨骼由 `build_vfx.py` 导出）。已支持 `VfxPrimitiveBeam`（从粒子到系统的 `target`，或到自身的目标偏移；网格沿 Z 轴拉伸；地面层光束贴在地面上）、`VfxPrimitiveRay`、`VfxPrimitiveAttachedMesh`（把所属模型的蒙皮网格重绘为光效或定格姿势的残影）、力场（加速度、阻力、吸引）和 `FlexShapeDefinition`（按目标大小缩放）。未实现：环绕/噪声力场、扭曲；附着网格忽略出生缩放、UV 滚动和溶解。施法特效跟随皮肤动画事件指定的骨骼（`Actor.bone`、`Vfx.playOn`）；设置 `ChampionDef.animVfx` 后由游戏自动播放这些事件（`build_vfx.py` 生成的 `events.json`：每个动画片段的粒子事件；被多个效果不同的变体共用的片段文件交给 kit 处理）。`blendMode` 缺失/4 = 加法混合，1 = alpha（根据纹理推断，无文档）。
+- 粒子：子粒子集（`childParticleSetDefinition`）跟随父粒子，生成在粒子蒙皮网格的骨骼上（`.skn` 以绑定姿势静态绘制，`.skl` 骨骼由 `build_vfx.py` 导出）。已支持 `VfxPrimitiveBeam`（从粒子到系统的 `target`，或到自身的目标偏移；网格沿 Z 轴拉伸；地面层光束贴在地面上）、`VfxPrimitiveRay`、`VfxPrimitiveAttachedMesh`（把所属模型的蒙皮网格重绘为光效或定格姿势的残影）、力场（加速度、阻力、吸引）和 `FlexShapeDefinition`（按目标大小缩放）。未实现：环绕/噪声力场、扭曲；附着网格忽略出生缩放、UV 滚动和溶解；`uvMode` 2 的网格粒子和滚动的乘法纹理（拉克丝的星座光环）显示偏淡；地面层四边形位于固定高度，因此会被抬高的出生平台遮挡。光束 UV：U 横跨光束（纹理是截面轮廓），V 沿光束方向，每 `mBirthTilingSize.y` 重复一次；`scale.x` 是总宽度。`colorLookUpTypeY` 3 为每个粒子随机选取颜色纹理的一行；粒子旋转使用 YXZ 顺序。施法特效跟随皮肤动画事件指定的骨骼（`Actor.bone`、`Vfx.playOn`）；设置 `ChampionDef.animVfx` 后由游戏自动播放这些事件（`build_vfx.py` 生成的 `events.json`：每个动画片段的粒子事件；被多个效果不同的变体共用的片段文件交给 kit 处理）。`blendMode` 缺失/4 = 加法混合，1 = alpha（根据纹理推断，无文档）。
 - 源 `.glb` 文件很大（伊泽瑞尔 29 MB，男爵 45 MB）；`pnpm build:prod`（`tools/optimize.mjs`）会移除代码未使用的动画片段，重采样并用 meshopt 压缩（伊泽瑞尔 1.9 MB，男爵 1.9 MB）。
 - 每个敌人都是带独立 mixer 的 SkinnedMesh，存活上限 260（`MAX_ENEMIES`）。要支持更大的怪潮：烘焙到纹理的动画 + 实例化。
 - 亚龙：动画共用 `sru_dragon`。炼狱亚龙和山脉亚龙使用云端亚龙的网格（`sru_dragon_air`）配自己的纹理，与原游戏一致（`EnemyDef.mesh`）。
